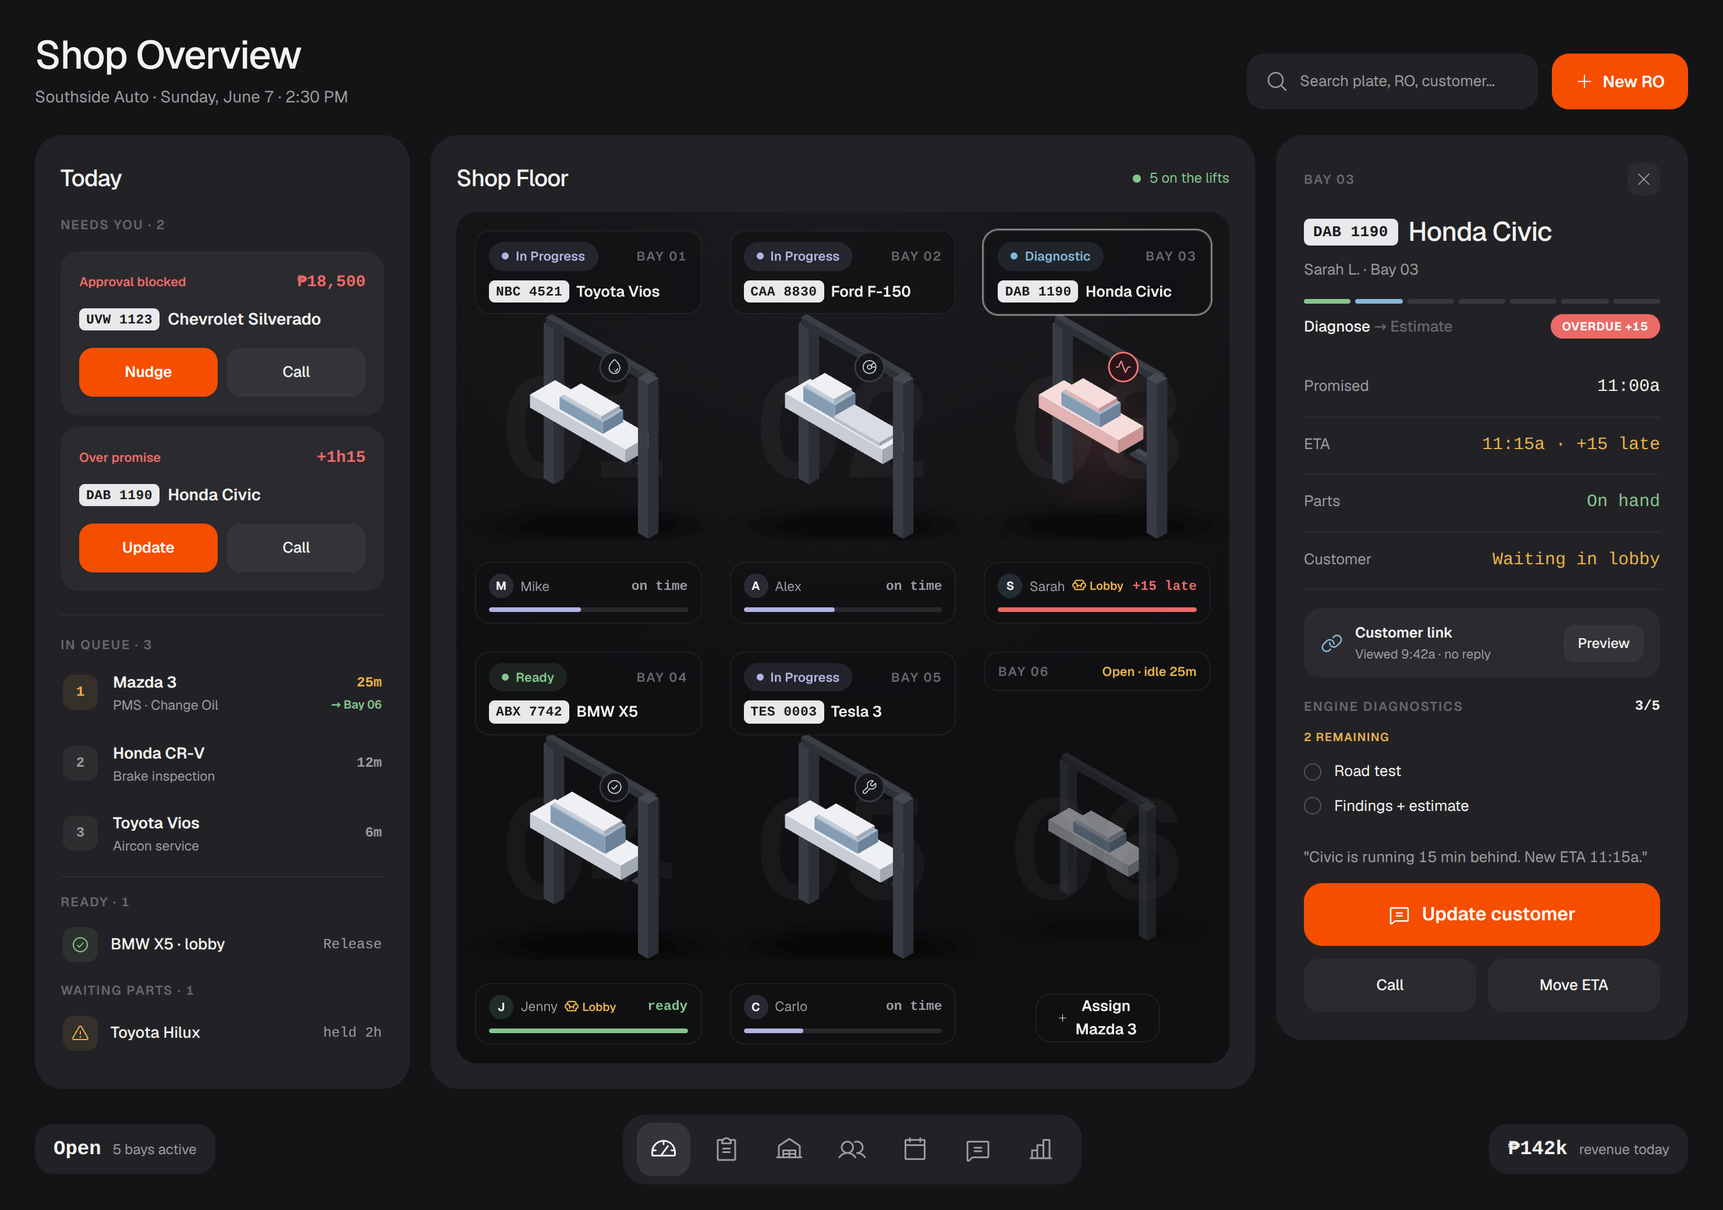
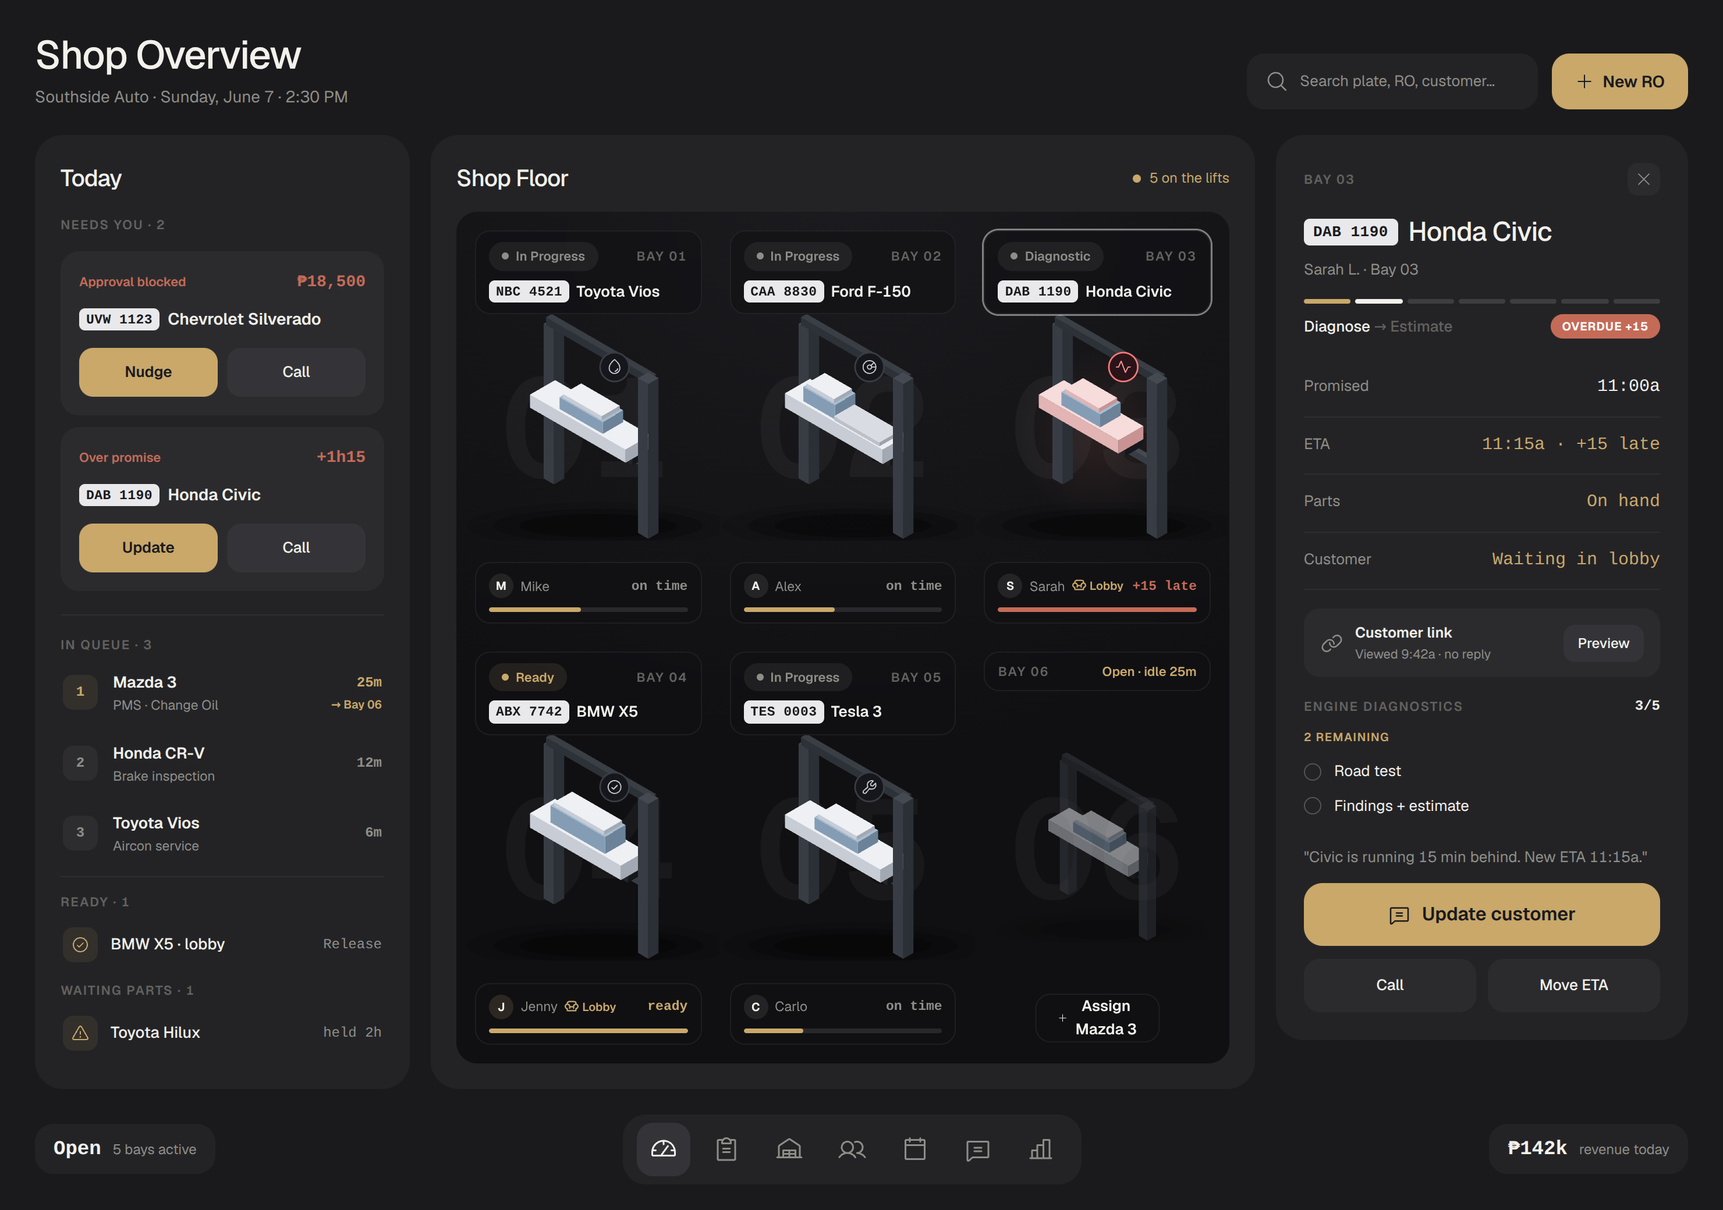
design: adopt Ink & Champagne colorway (elevated minimal)
Replace the orange-CTA + Rivian-gold + status-pastels scheme with a
near-monochrome charcoal foundation and a single warm-metal accent (champagne
#C9A86A), plus a scarce terracotta alarm (#C46B57). Status now reads by weight,
not hue: running=neutral grey, ready/waiting=champagne, overdue=alert.

- overview.js: retint tokens, sc() status map, CTA fill (champagne + dark ink
  text), stepper (done=champagne/current=ink), progress fills; regenerate render.
- DESIGN.md section 3 rewritten to Ink & Champagne (dark + light tokens); light
  mode drops green and carries the same accent (verve kept as layout reference
  only); swept orange/gold references across the guide.

https://claude.ai/code/session_01BjYpPhgk6VoyMJzrkJK9uF

diff --git a/design/prototype/overview.js b/design/prototype/overview.js
@@ -1,12 +1,14 @@
 const M=require("./components.js");
 const {fs,path,icon,I,lift,insp}=M;
 
-// ---- Rivian card skin + Reload editorial premium ----
-const BG="#141416",CARD="#222226",CARD2="#2A2A2F",RAISE="#34343A",INK="#F4F3F0",SOFT="#9B9B9F",FAINT="#67676B",HAIR="rgba(255,255,255,0.055)";
-const GOLD="#E7B24A",ORANGE="#F54E00",GREEN="#86C58C",BLUE="#86B7D8",LAV="#B2B4E0",RED="#E96A66";
+// ---- Ink & Champagne: near-monochrome base + one warm-metal accent (elevated minimal) ----
+const BG="#1A1A1C",CARD="#232326",CARD2="#2B2B2E",RAISE="#343438",INK="#F2F1EC",SOFT="#8E8E88",FAINT="#62625E",HAIR="rgba(255,255,255,0.05)";
+const CHAMP="#C9A86A",CHAMPSOFT="#DAC093",ALERT="#C46B57";
+// one accent everywhere meaningful; status reads as neutral vs accent vs alarm, not a rainbow
+const GOLD=CHAMP,ORANGE=CHAMP,GREEN=CHAMP,BLUE=SOFT,LAV=SOFT,RED=ALERT;
 const card=(r=24,x="")=>`border-radius:${r}px;background:${CARD};${x}`;
 const MONO="font-family:ui-monospace,SFMono-Regular,Menlo,monospace;font-variant-numeric:tabular-nums";
-const sc=s=>({"In Progress":LAV,"Diagnostic":BLUE,"Ready":GREEN,"Waiting":GOLD}[s]||SOFT);
+const sc=s=>({"In Progress":SOFT,"Diagnostic":SOFT,"Ready":CHAMP,"Waiting":CHAMP}[s]||SOFT);
 
 const bays=[
  {id:"01",type:"sedan",plate:"NBC 4521",vehicle:"Toyota Vios",svc:"oil",state:"Oil & filter",status:"In Progress",mech:"Mike R.",eta:"on time",pct:46},
@@ -35,7 +37,7 @@ function label(t){return `<span style="font-size:11px;font-weight:600;letter-spa
 function needCard(n){return `<div style="${card(16)};padding:16px;background:${CARD2}">
   <div style="display:flex;align-items:center;justify-content:space-between;margin-bottom:11px"><span style="font-size:11px;font-weight:600;color:${n.sev}">${n.reason}</span><span style="${MONO};font-size:14px;font-weight:600;color:${n.sev}">${n.risk}</span></div>
   <div style="display:flex;align-items:center;gap:7px;margin-bottom:14px">${plate(n.plate)}<span style="font-size:14px;font-weight:600">${n.vehicle}</span></div>
-  <div style="display:flex;gap:8px"><button style="flex:1;border-radius:12px;height:42px;font-size:13px;font-weight:600;color:#fff;background:${ORANGE};border:none">${n.pri}</button><button style="flex:1;border-radius:12px;height:42px;font-size:13px;font-weight:500;color:${INK};background:${RAISE};border:none">Call</button></div></div>`;}
+  <div style="display:flex;gap:8px"><button style="flex:1;border-radius:12px;height:42px;font-size:13px;font-weight:600;color:${BG};background:${CHAMP};border:none">${n.pri}</button><button style="flex:1;border-radius:12px;height:42px;font-size:13px;font-weight:500;color:${INK};background:${RAISE};border:none">Call</button></div></div>`;}
 function qRow(q){const long=parseInt(q.wait)>=20;return `<div style="display:flex;align-items:center;gap:13px;padding:11px 2px"><span style="display:grid;width:30px;height:30px;flex-shrink:0;place-items:center;border-radius:9px;${MONO};font-size:12px;font-weight:600;color:${long?GOLD:SOFT};background:${(long?GOLD:SOFT)}18">${q.pos}</span><div style="min-width:0;flex:1"><div style="font-size:13.5px;font-weight:600;overflow:hidden;text-overflow:ellipsis;white-space:nowrap">${q.vehicle}</div><div style="font-size:11.5px;color:${SOFT};margin-top:1px;overflow:hidden;text-overflow:ellipsis;white-space:nowrap">${q.svc}</div></div><div style="text-align:right;flex-shrink:0"><div style="${MONO};font-size:12px;font-weight:600;color:${long?GOLD:SOFT}">${q.wait}</div>${q.next?`<div style="font-size:10px;font-weight:600;color:${GREEN};margin-top:2px">→ Bay 06</div>`:""}</div></div>`;}
 function pillRow(ic,t,v,c){return `<div style="display:flex;align-items:center;gap:11px;padding:11px 2px"><span style="display:grid;width:30px;height:30px;flex-shrink:0;place-items:center;border-radius:9px;background:${c}18;color:${c}">${icon(ic,"h-4 w-4")}</span><span style="flex:1;font-size:13.5px;font-weight:500">${t}</span><span style="font-size:12px;color:${SOFT};${MONO}">${v}</span></div>`;}
 
@@ -62,7 +64,7 @@ function bay(b){
         <div style="display:flex;align-items:center;gap:6px"><span style="display:grid;width:21px;height:21px;place-items:center;border-radius:50%;font-size:10px;font-weight:700;background:${c}28;color:${INK}">${b.mech[0]}</span><span style="font-size:11.5px;color:${SOFT}">${b.mech.split(" ")[0]}</span>${b.waiting?`<span style="display:inline-flex;align-items:center;gap:3px;font-size:10px;font-weight:600;color:${GOLD}">${icon(I.armchair,"h-3 w-3")}Lobby</span>`:""}</div>
         <span style="${MONO};font-size:11.5px;font-weight:600;color:${eC}">${b.eta}</span>
       </div>
-      <div style="margin-top:8px;height:4px;border-radius:2px;background:rgba(255,255,255,0.1);overflow:hidden"><div style="height:100%;width:${b.pct}%;border-radius:2px;background:${b.over?RED:c}"></div></div>
+      <div style="margin-top:8px;height:4px;border-radius:2px;background:rgba(255,255,255,0.1);overflow:hidden"><div style="height:100%;width:${b.pct}%;border-radius:2px;background:${b.over?ALERT:CHAMP}"></div></div>
     </div>
   </div>`;
 }
@@ -74,7 +76,7 @@ function inspector(){const i=insp,done=i.steps.filter(s=>s.done).length,tot=i.st
     <div style="display:flex;align-items:center;justify-content:space-between;margin-bottom:14px">${label("Bay 03")}<span style="display:grid;width:28px;height:28px;place-items:center;border-radius:9px;color:${SOFT};background:${CARD2}">${icon(I.x,"h-4 w-4")}</span></div>
     <div style="display:flex;align-items:center;gap:9px;margin-bottom:5px">${plate(i.plate,true)}<span style="font-size:23px;font-weight:500;letter-spacing:-0.02em">${i.vehicle}</span></div>
     <div style="font-size:13px;color:${SOFT};margin-bottom:16px">${i.mech} · Bay ${i.bay}</div>
-    <div style="display:flex;gap:4px;margin-bottom:9px">${i.stages.map((s,ix)=>`<div style="flex:1;height:4px;border-radius:2px;background:${ix<i.stageIdx?GREEN:ix===i.stageIdx?BLUE:"rgba(255,255,255,0.1)"}"></div>`).join("")}</div>
+    <div style="display:flex;gap:4px;margin-bottom:9px">${i.stages.map((s,ix)=>`<div style="flex:1;height:4px;border-radius:2px;background:${ix<i.stageIdx?CHAMP:ix===i.stageIdx?INK:"rgba(255,255,255,0.12)"}"></div>`).join("")}</div>
     <div style="display:flex;align-items:center;justify-content:space-between;margin-bottom:18px"><span style="font-size:13px;font-weight:500">${i.stages[i.stageIdx]}<span style="color:${FAINT}"> → ${i.stages[i.stageIdx+1]}</span></span><span style="border-radius:999px;padding:3px 10px;font-size:10px;font-weight:700;letter-spacing:0.05em;color:#fff;background:${RED}">OVERDUE +15</span></div>
     ${readout("Promised","11:00a")}${readout("ETA","11:15a · +15 late",GOLD)}${readout("Parts","On hand",GREEN)}${readout("Customer","Waiting in lobby",GOLD)}
     <div style="display:flex;align-items:center;gap:10px;margin:16px 0;border-radius:14px;padding:12px 14px;background:${CARD2}"><span style="color:${BLUE}">${icon(I.link,"h-5 w-5")}</span><div style="flex:1;min-width:0"><div style="font-size:12.5px;font-weight:600">Customer link</div><div style="font-size:11px;color:${SOFT}">${i.custView}</div></div><button style="border-radius:10px;padding:0 12px;height:32px;font-size:12px;font-weight:500;color:${INK};background:${RAISE};border:none">Preview</button></div>
@@ -82,7 +84,7 @@ function inspector(){const i=insp,done=i.steps.filter(s=>s.done).length,tot=i.st
     <div style="font-size:10px;font-weight:600;color:${GOLD};letter-spacing:0.08em;text-transform:uppercase;margin-bottom:7px">${rem.length} remaining</div>
     ${rem.map(s=>`<div style="display:flex;align-items:center;gap:11px;padding:5px 0"><span style="width:15px;height:15px;flex-shrink:0;border-radius:50%;border:1.5px solid rgba(255,255,255,0.22)"></span><span style="font-size:13px">${s.t}</span></div>`).join("")}
     <div style="margin-top:20px"><div style="font-size:13px;color:${SOFT};line-height:1.5;margin-bottom:12px">"${i.nbaPreview}"</div>
-      <button style="display:flex;width:100%;align-items:center;justify-content:center;gap:9px;border-radius:16px;height:54px;font-size:16px;font-weight:600;color:#fff;background:${ORANGE};border:none">${icon(I.msg,"h-5 w-5")}${i.nba}</button>
+      <button style="display:flex;width:100%;align-items:center;justify-content:center;gap:9px;border-radius:16px;height:54px;font-size:16px;font-weight:600;color:${BG};background:${CHAMP};border:none">${icon(I.msg,"h-5 w-5")}${i.nba}</button>
       <div style="display:flex;gap:10px;margin-top:11px"><button style="flex:1;border-radius:14px;height:46px;font-size:13px;font-weight:500;color:${INK};background:${CARD2};border:none">Call</button><button style="flex:1;border-radius:14px;height:46px;font-size:13px;font-weight:500;color:${INK};background:${CARD2};border:none">Move ETA</button></div>
     </div></div>`;}
 
@@ -102,7 +104,7 @@ const body=`<div style="min-height:100vh;display:flex;flex-direction:column">
     <div><h1 style="font-size:34px;font-weight:500;margin:0;line-height:1">Shop Overview</h1><div style="font-size:14px;color:${SOFT};margin-top:9px">Southside Auto · Sunday, June 7 · 2:30 PM</div></div>
     <div style="display:flex;align-items:center;gap:12px">
       <div style="display:flex;align-items:center;width:250px;gap:10px;border-radius:15px;background:${CARD};padding:0 16px;height:48px;color:${SOFT}">${icon(I.search,"h-5 w-5")}<span style="font-size:13px">Search plate, RO, customer…</span></div>
-      <button style="display:inline-flex;align-items:center;gap:8px;border-radius:15px;height:48px;padding:0 20px;font-size:14px;font-weight:600;color:#fff;background:${ORANGE};border:none">${icon(I.plus,"h-4 w-4")}New RO</button>
+      <button style="display:inline-flex;align-items:center;gap:8px;border-radius:15px;height:48px;padding:0 20px;font-size:14px;font-weight:600;color:${BG};background:${CHAMP};border:none">${icon(I.plus,"h-4 w-4")}New RO</button>
     </div>
   </header>
 

diff --git a/DESIGN.md b/DESIGN.md
@@ -42,7 +42,7 @@ borrowed information density.** Keep the calm surface; keep all the features.
 Three-zone working row under a header, over a bottom utility bar:
 
 ```
-┌ header: "Shop Overview" + search + New RO (orange) ───────────────┐
+┌ header: "Shop Overview" + search + New RO (champagne) ────────────┐
 ├ spine 322px │  open floor (hero, flex)  │ inspector 354px ────────┤
 └ bottom utility bar: status pill · nav cluster · revenue pill ─────┘
 ```
@@ -61,73 +61,74 @@ Outer page padding 30px; inter-zone gap 18px.
 
 ## 3. Color
 
-Dark-first. One warm accent for identity, one orange for action, semantic colors
-for status only.
+**Ink & Champagne.** A near-monochrome charcoal/ink foundation with exactly one
+warm-metal accent (champagne) and one scarce alarm. No competing hues. This is
+what makes it read elevated and minimal rather than busy. (This replaces the
+earlier Rivian gold + orange-CTA + status-pastels scheme.)
+
+Dark-first neutral foundation:
 
 | Token | Hex | Use |
 |---|---|---|
-| `BG` | `#141416` | Page background |
-| `CARD` | `#222226` | Primary card fill (Rivian soft charcoal) |
-| `CARD2` | `#2A2A2F` | Raised inner surface (need cards, link card) |
-| `RAISE` | `#34343A` | Secondary button fill |
-| `INK` | `#F4F3F0` | Primary text (warm white) |
-| `SOFT` | `#9B9B9F` | Secondary text |
-| `FAINT` | `#67676B` | Labels, tertiary |
-| `HAIR` | `rgba(255,255,255,0.055)` | Hairline dividers |
+| `BG` | `#1A1A1C` | Page background (warm ink) |
+| `CARD` | `#232326` | Primary card fill |
+| `CARD2` | `#2B2B2E` | Raised inner surface (need cards, link card) |
+| `RAISE` | `#343438` | Secondary button fill |
+| `INK` | `#F2F1EC` | Primary text (warm white) |
+| `SOFT` | `#8E8E88` | Secondary text **and neutral status** |
+| `FAINT` | `#62625E` | Labels, tertiary |
+| `HAIR` | `rgba(255,255,255,0.05)` | Hairline dividers |
 
-**Accents — the lock:**
+**Accent — the lock (one color):**
 
 | Token | Hex | Meaning |
 |---|---|---|
-| `ORANGE` | `#F54E00` | **The single CTA accent.** Primary action only: New RO, Nudge/Update, Update customer. Never decorative. |
-| `GOLD` | `#E7B24A` | Rivian warm identity: waiting, idle, long-wait, attention. |
-| `GREEN` | `#86C58C` | Ready / on-track / done. |
-| `BLUE` | `#86B7D8` | Diagnostic / in-flight stage. |
-| `LAV` | `#B2B4E0` | In progress. |
-| `RED` | `#E96A66` | **Alarm only:** overdue, blocked, unpaid. Scarce. |
+| `CHAMP` | `#C9A86A` | **The single accent.** Carries identity, the primary CTA, the active/selected bay, completed steps, progress fills, prices, and attention (ready/waiting). It repeats freely; that repetition *is* the minimalism. |
+| `CHAMPSOFT` | `#DAC093` | Lighter champagne for hover / large soft fills. |
+| `ALERT` | `#C46B57` | **Alarm only:** overdue, blocked, unpaid. The only other color on screen. Scarce. |
 
 Rules:
-- **Orange is scarce.** One primary CTA per context, max. If two oranges compete
-  on screen, one is wrong.
-- **Red is alarm, not decoration.** A red car tint, a red OVERDUE pill, a red
-  risk figure — only when something is genuinely wrong.
-- Status colors render as full-saturation text on a faint `${c}1c`–`${c}28`
-  fill. No solid loud chips.
+- **One accent, repeated.** Champagne is the whole palette. Do not reintroduce a
+  second hue (green/blue/orange) for variety; variety comes from neutral tonal
+  weight, not new colors.
+- **CTA = champagne fill, dark ink text** (`color:${BG}`), never white. Champagne
+  is light; white text on it fails contrast.
+- **Status by weight, not hue.** Running states (In Progress, Diagnostic) are
+  **neutral grey** (`SOFT`) meaning "nothing needed." Ready / Waiting are
+  **champagne** meaning "needs your eye." Overdue / blocked are **ALERT**. Three
+  signals, full stop.
+- **Alert is scarce.** Terracotta only for true alarm: the OVERDUE pill, a
+  blocked-approval risk figure, an overdue vehicle tint.
+- **Vehicles stay neutral** grey; overdue tints them toward alert.
 - Plates are always the physical artifact: light `#E9E9EC` ground, near-black
   ink, mono. They read as a license plate, not a UI tag.
 
-### Light mode (reference: "verve")
+### Light mode
 
-The dark cockpit above is the priority. Light mode follows the **verve** real
-estate dashboard as its reference: green-led, airy, soft pastel cards on
-near-white surfaces, generous whitespace. Reference screenshots live in
-`design/references/verve/`.
-
-**Light palette (verve brand):**
+Light mode carries the same **Ink & Champagne** identity (green is dropped). The
+**verve** real estate dashboard remains the reference for *layout, airiness, soft
+cards, and spacing* only; its green palette is overridden. Reference screenshots
+live in `design/references/verve/`.
 
 | Token | Hex | Use |
 |---|---|---|
-| `NORDIC` | `#19322F` | Darkest green: headings, primary text, logo. |
-| `MOSQUE` | `#006655` | Primary green: prices, identity, selected/active. |
-| `HINT_OF_GREEN` | `#D9ECC8` | Pale green card fill (e.g. "Completed Deals"). |
-| `CLEAR_DAY` | `#EEF6F6` | Near-white page background. |
-| (pale blue) | `~#D6EAF2` | Second pastel stat card (e.g. "Total Revenue"). |
-| (white) | `#FFFFFF` | Primary cards / panels. |
+| `BG` (light) | `#F5F4F0` | Off-white page background |
+| `CARD` (light) | `#FFFFFF` | Cards / panels |
+| `INK` (light) | `#14140F` | Primary text (warm near-black) |
+| `SOFT` (light) | `#8C8C86` | Secondary text / neutral status |
+| `CHAMP` | `#C9A86A` | Accent fills (CTA, active, progress). |
+| `CHAMP_INK` | `#A8842F` | Deeper champagne for *small text/prices* on white (the `#C9A86A` fill tone fails small-text contrast on light). |
+| `ALERT` | `#C46B57` | Alarm only. |
 
-**Notes for the port:**
-- **Type stays Geist** (the locked face). verve uses SF Pro Display; Geist is the
-  Apple-adjacent equivalent, so the editorial feel carries over. No font change.
-- **Surfaces:** white cards on a `CLEAR_DAY` page, soft rounded corners, gentle
-  shadows allowed here (light mode reads flatter, so a light soft shadow is the
-  separation device instead of dark-mode hairlines).
-- **Stat cards:** the pale-green / pale-blue pairing (with an inline progress bar
-  + percent) maps directly onto our Completed Deals / Total Revenue pattern.
-- **Open reconciliation (accent):** dark mode locks **orange** as the single CTA
-  accent; verve is **green**-led with the occasional coral nav highlight.
-  Recommendation: keep **orange** as the one cross-mode CTA accent for brand
-  continuity, and use **MOSQUE green** as light mode's identity/secondary
-  (prices, headings, active states). Confirm before building light mode so we
-  do not end up with two competing accents.
+Light-mode notes:
+- **Type stays Geist.** verve uses SF Pro Display; Geist is the Apple-adjacent
+  equivalent, so the editorial feel carries over. No font change.
+- **Surfaces:** white cards on the off-white page, soft rounded corners; a gentle
+  soft shadow is the separation device here (vs the dark-mode hairline rule).
+- **Stat cards:** verve's paired pastel cards map onto our Completed Deals /
+  Total Revenue pattern, but tinted as faint champagne / neutral, not green/blue.
+- **Accent question resolved:** champagne is the single cross-mode accent; green
+  is not used. Use `CHAMP_INK` where champagne sits as small text on white.
 
 ---
 
@@ -211,7 +212,7 @@ none; this is the spec for the Next.js port.
 - **Calm, not busy.** One thing moves at a time in a given region. No looping
   ambient animation, no decorative parallax. The floor is calm until something
   actually changes.
-- **The accent earns the loudest motion.** The orange CTA may get a subtle press
+- **The accent earns the loudest motion.** The champagne CTA may get a subtle press
   spring; a real alarm (new overdue) may pulse once. Nothing else competes.
 - **Respect `prefers-reduced-motion`** — fall back to instant state changes.
 - Motion never invents data and never delays the operator: progress bars and ETA
@@ -231,7 +232,7 @@ small curated set, not a grab-bag.
   4% opacity behind everything.
 - Selected bay gets a `1.5px` white-45% ring. Overdue bays get a radial red wash
   behind the vehicle.
-- Empty bay: faint lift at 50% opacity, "Open · idle" gold label, and a single
+- Empty bay: faint lift at 50% opacity, "Open · idle" champagne label, and a single
   glass "Assign" CTA.
 
 ### Iso vehicle + lift system
@@ -258,25 +259,25 @@ vehicle art and motion are out of scope for a static prototype.
 - **No hand-rolled icon SVGs.** (The iso vehicle/lift are illustrations, not
   icons — they are the one sanctioned exception.)
 - Icons are monochrome and inherit text color; they never carry the accent unless
-  they sit inside the one orange CTA.
+  they sit inside the one champagne CTA.
 
 ---
 
 ## 10. Components
 
 - **Need card** (spine exception): reason + risk figure in severity color, plate
-  + vehicle, then orange primary (Nudge/Update) + ghost Call. The only place
-  orange appears in the spine.
-- **Queue row:** position badge (gold if wait ≥20m), vehicle + service, wait
+  + vehicle, then champagne primary (Nudge/Update) + ghost Call. The only place
+  the accent appears in the spine.
+- **Queue row:** position badge (champagne if wait ≥20m), vehicle + service, wait
   time, and a green "→ Bay NN" hint on the next-up row. No plates in the spine —
   they live in the inspector on tap (avoids truncation).
 - **Status pill** (`rivPill`): status text + a small live-status dot, on a faint
   tint. The dot is a *live-state indicator*, permitted here; it is never used as
   ornament elsewhere.
-- **Inspector:** stage stepper (done=green, current=blue, todo=faint), label +
+- **Inspector:** stage stepper (done=champagne, current=ink, todo=faint), label +
   value readouts on hairlines, a customer-link card with view state, a
   remaining-checklist with empty radio circles, then the NBA message preview in
-  quotes above the orange "Update customer" CTA + Call / Move ETA.
+  quotes above the champagne "Update customer" CTA + Call / Move ETA.
 - **Bottom utility bar:** left status pill, centered icon nav cluster (active tile
   raised), right revenue pill. Numbers in mono.
 
@@ -302,7 +303,8 @@ review; the universally-applicable rules apply even though that skill scopes
 itself to landing pages.
 
 - [ ] **No em/en dashes** anywhere rendered (run `grep` for `—` and `–`).
-- [ ] **One orange CTA** per context; orange never decorative.
+- [ ] **One champagne accent**, repeated; no second hue reintroduced. CTA is
+      champagne fill + dark ink text.
 - [ ] **Red only for true alarm** (overdue/blocked/unpaid).
 - [ ] **Radius** rounds to the §5 scale; no invented intermediate values.
 - [ ] **One drop-shadow only** (the vehicle product-shadow); all UI depth is
